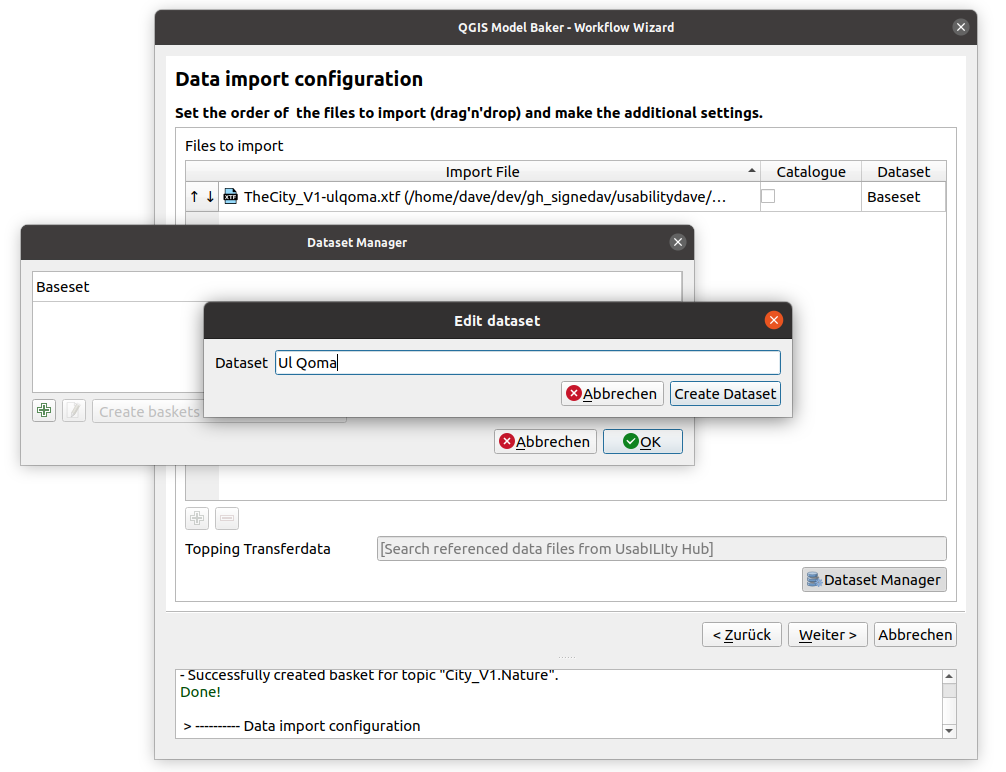
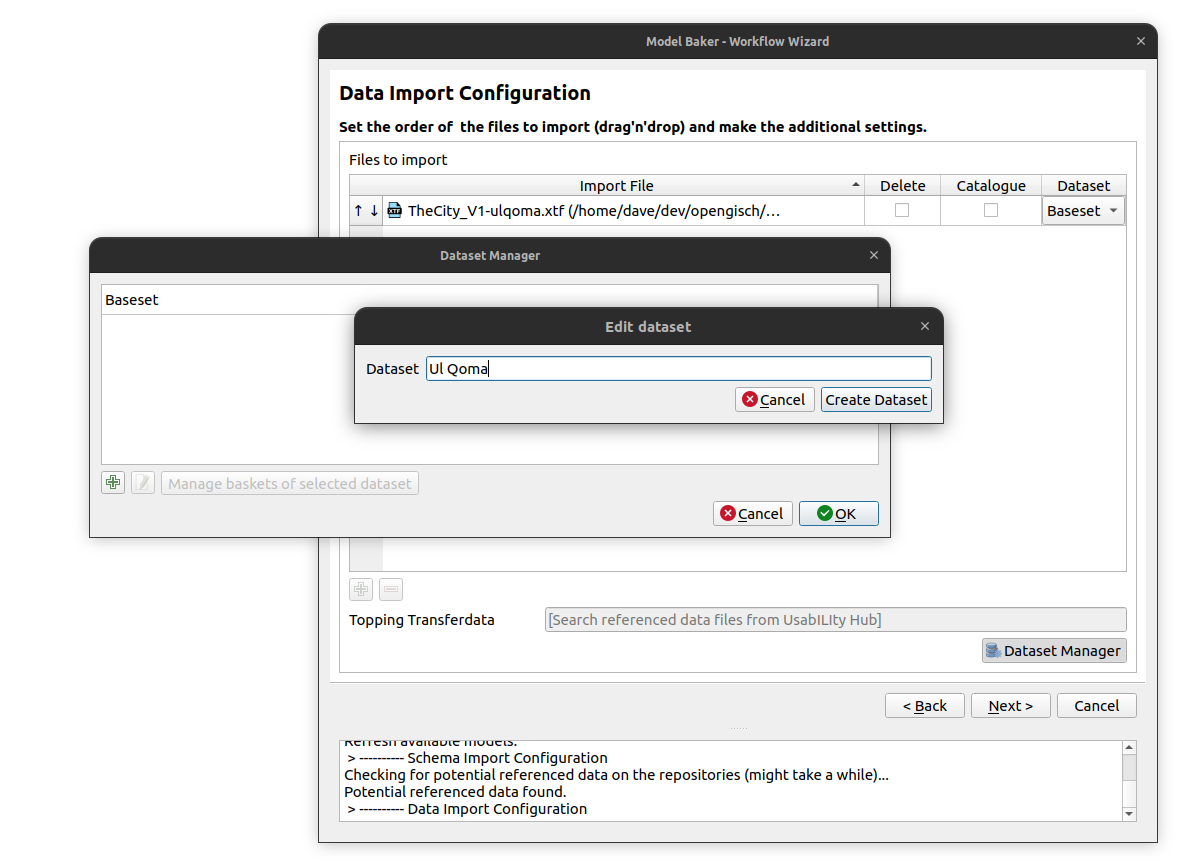
documentation for delete data implementation

Changed region(s): [[0.0, 0.0, 0.9861, 0.9948], [0.0308, 0.5907, 0.0924, 0.6218]]

diff --git a/docs/user_guide/import_workflow.md b/docs/user_guide/import_workflow.md
@@ -94,6 +94,7 @@ If this option is activated, circular arcs are stroked when importing the data.
 ### SQL Scripts
 
 You can define `sql` scripts that runs before and after the (schema) import.
+
 ### Extra Meta Attribute File
 
 A `toml` or `ini` file can contain values for [meta attributes](../../background_info/meta_attributes/) (like `qgis.modelbaker.dispExpression`) instead of having them directly in the `ili` file.
@@ -121,7 +122,8 @@ After the physial model is generated or you selected an existing database to imp
 ![wizard data import](../assets/workflow_wizard_data_import.png)
 
 ### Import order
-While the order to import the INTERLIS models are not important (usually, see [exceptions](../../background_info/catalogues/Multiple-selection-with-BAG-OF)), the data import often requires the correct order. Transfer data often depends on existing catalogue / codelist data. Drag and drop your files with ![datafile arrow button](../assets/drag_arrows_button.png) to the right order.
+
+While the order to import the INTERLIS models are not important (usually, see [exceptions](../../background_info/catalogues/#multiple-selection-with-bag-of)), the data import often requires the correct order. Transfer data often depends on existing catalogue / codelist data. Drag and drop your files with ![datafile arrow button](../assets/drag_arrows_button.png) to the right order.
 
 ### Dataset Handling
 
@@ -140,6 +142,10 @@ If the data to import is a catalogue, please select the checkbox for *catalogue*
 Not only meta data for ili2db and styling can be received over the ilidata.xml from the *UsabILIty Hub* repositories. As well there can be found catalogue data referenced over the model name. This means Model Baker checks the UsabILIty Hub repositories for all the models contained in the database schema. If it founds referenced catalogue data it provides them to you in the autocomplete widget. Add them with the ![plus button](../assets/plus_button.png) (the needed models have been suggested in the [INTERLIS model import](#import-of-interlis-model) already).
 
 Check more information about the catalogues on the *UsabILIty Hub* [here](../../background_info/usabilityhub/modelbaker_integration/#directly-referenced-catalogues).
+
+### Delete data first
+
+If you want to delete the data in the database first, you can check the corresponding box. On using baskets, the ili2db parameter `--replace` is executed instead of `--update`. On not using baskets, the parameter `--deleteData` is added to the command. Note that on using baskets, only the data from the corresponding dataset is deleted, whereas on not using baskets all data from the schema is deleted.
 
 ## Generate the QGIS Project
 

diff --git a/docs/background_info/basket_handling.md b/docs/background_info/basket_handling.md
@@ -35,17 +35,14 @@ VERSION "2020-06-22" =
     OID AS INTERLIS.UUIDOID;
 
     CLASS Buildings  =
-      Code : MANDATORY TEXT*15;
-      Description : MANDATORY TEXT*99;
       Address : Address;
-      Geometry: Surface;
+      Description : TEXT*99;
+      Geometry : Surface;
     END Buildings;
 
     CLASS Street  =
-      Code : MANDATORY TEXT*15;
-      Description : MANDATORY TEXT*99;
-      Address : Address;
-      Geometry: Line;
+      Name : MANDATORY TEXT*99;
+      Geometry : Line;
     END Street;
 
   END Constructions;
@@ -101,7 +98,10 @@ These are basicly the data in a dataset. You might already notice the `BID` fiel
 
 We need to import the data of Ul Qoma now into our physical model with the ili2db parameter `--dataset "Ul Qoma"`. When the dataset already exists in the physical database we do not make an `--import`, but an `--update` instead. This means all the data in this dataset are updated with the data from the `xtf` file (and removed if not existent there).
 
-With the Model Baker we do make generally an `--update`, because we import only into exiting datasets.
+With the Model Baker we do make generally an `--update`, , as we only import into existing datasets. If you want to delete all the data from this dataset first (even from baskets other than those contained in the transfer file), you can check the corresponding box. In this case, a `--replace` command will be executed instead.
+
+!!! Note
+    The difference between a `--replace` and an `--update` is that the one hand with an `--update` the baskets that are not contained in the transferfile remain untouched and on the other hand the technical ids remain the physical database (because we "update"), whereas with  a `--replace` the are freshly created (because here we "delete" and "insert"). This means these two commands could trigger different backend functions (e.g. trigger functions on PostgreSQL).
 
 ### Dataset Manager
 
